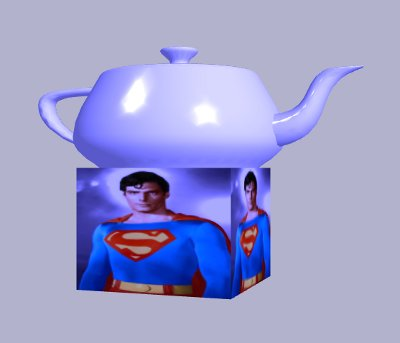
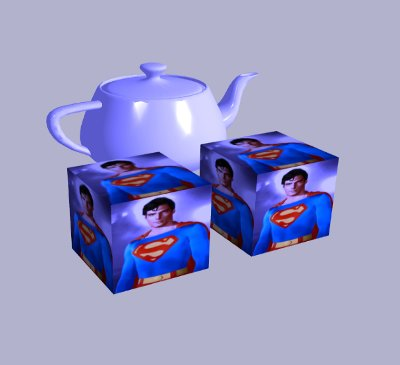
'About' page tweaks

diff --git a/about.html b/about.html
@@ -118,7 +118,7 @@
     <p>A scene graph is a data structure that arranges the logical and spatial
         representation of a graphical scene as a collection of nodes in a graph, typically
         a tree. Scene graphs typically provide a convenient
-        abstraction on top of low-level graphics APIs that encapsulates optimisations
+        abstraction on top of low-level graphics APIs (such as WebGL) that encapsulates optimisations
         and API best practices, leaving the developer free to concentrate on
         scene content.</p>
 
@@ -196,7 +196,7 @@
 
     <h3>5. Scene Optimisation</h3>
 
-    <p>The API supports several scene definition techniques that improve scene
+    <p>The SceneJS API supports several scene definition techniques that improve scene
         performance by exploiting the draw list state sorting order described above.
 
     <h4>5.1. Texture Atlases</h4>
@@ -275,76 +275,77 @@
 </div>
 <div class="col right">
     <a name="sceneDef"></a>
-        <pre class="prettyprint lang-javascript" style="margin-bottom:30px;">
+        <pre class="prettyprint lang-javascript" style="margin-bottom:20px;">
 var scene = SceneJS.createScene({
-   nodes:[
-      {
-         type:"material",
-         color:{ r:0.3, g:0.3, b:1.0 },
+    nodes: [{
+        type: "material",
+        color: {
+            r: 0.5,
+            g: 0.5,
+            b: 1.0
+        },
 
-         nodes:[
-            {
-               type:"rotate",
-               id:"myRotate",
-               y:1.0,
-               angle:0,
+        nodes: [{
+            type: "texture",
+            layers: [{
+                src: "../../textures/superman.jpg"
+            }],
 
-               nodes:[
-                  {
-                     type:"scale",
-                     x:0.7, y:0.7, z:0.7,
-                     nodes:[
-                        {
-                           type:"prims/teapot"
-                        }
-                     ]
-                  },
-                  {
-                     type:"texture",
-                     layers:[
-                        {
-                           src:"textures/superman.jpg"
-                        }
-                     ],
-                     nodes:[
-                        {
-                           type:"translate",
-                           y:-1.0,
-                           nodes:[
-                              {
-                                 type:"prims/box"
-                              }
-                           ]
-                        }
-                     ]
-                  }
-               ]
-            }
-         ]
-      }
-   ]
-});
-</pre>
+            nodes: [{
+                type: "translate",
+                x: -3.0,
+                y: 1.0,
+                z: 5.0,
+
+                nodes: [{
+                    type: "prims/box"
+                }]
+            }, {
+                type: "translate",
+                y: 1.0,
+                z: 5.0,
+
+                nodes: [{
+                    type: "prims/box"
+                }]
+            }]
+        }, {
+            type: "prims/teapot"
+        }]
+    }]
+});</pre>
     <p><strong>Listing 1.</strong> Scene graph definition. The scene graph is a directed acyclic
         graph (DAG) expressed in JSON, in this case defining a scene containing a blue
-        teapot that rotates about its Y-axis. Geometry nodes are normally at the leaves,
-        where they inherit the state defined by higher nodes, in this case the material and rotation transform.
+        teapot sitting on a textured box, both of which rotate together about the Y-axis.
+        Geometry nodes are normally at the leaves, where they inherit the state defined by higher
+        nodes, in this case the material and rotation transform.
     </p>
 
-    <br/><br/><br/>
-    <img src="images/sceneGraphObjects.png">
-    <p><strong>Fig 1.</strong> Scene graph compiled from the scene definition of Listing 1. Note that
+
+    <img src="images/sceneGraphObjects3.png">
+    <p><strong>Figure 1.</strong> Scene graph compiled from the scene definition of Listing 1. Note that
         geometries at the leaves inherit state from parent nodes, and that various nodes hold resources
         allocated for them on the GPU.
     </p>
 
-    <br/><br/><br/>
+    <br/><br/>
+    <img src="images/drawListObjects2.png">
+    <p><strong>Figure 2.</strong> State-sorted draw list compiled from the scene graph of Figure 2.
+        Nodes n1, n2 and n3 reference the states to set on WebGL to draw the teapot
+        and cubes at the leaves of the scene graph. Nodes n2 and n3 reference a similar
+        state configuration and therefore reference the same shader. The nodes are ordered to
+        prevent needless rebinding of the texture, geometry VBOs and shader programs when
+        rendering the frame.
+    </p>
+
+    <br/><br/><br/><br/>
     <a href="examples.html?page=secondExample" target="_other"><img src="images/secondExample.jpg"></a>
-    <p><strong>Fig 2.</strong> Screenshot of 3D scene rendered from the scene definition of Listing 1.
+    <p><strong>Figure 2.</strong> The 3D scene rendered from the scene definition of Listing 1.
         Run it <a href="examples.html?page=secondExample" target="_other">here</a>.
     </p>
 
 
+    <br/><br/><br/><br/>
     <a name="nodeCores"></a>
             <pre class="prettyprint lang-javascript">
 var scene = SceneJS.createScene({

diff --git a/examples/ex/demos/secondExample.html b/examples/ex/demos/secondExample.html
@@ -30,26 +30,14 @@
     var scene = SceneJS.createScene({
         nodes:[
             {
-                type:"material",
-                color:{ r:0.5, g:0.5, b:1.0 },
-
+                type:"lookAt",
+                eye:{ z:15, x:-8, y:7 },
                 nodes:[
                     {
-                        type:"rotate",
-                        id:"myRotate",
-                        y:1.0,
-                        angle:0,
+                        type:"material",
+                        color:{ r:0.5, g:0.5, b:1.0 },
 
                         nodes:[
-                            {
-                                type:"scale",
-                                x:0.7, y:0.7, z:0.7,
-                                nodes:[
-                                    {
-                                        type:"prims/teapot"
-                                    }
-                                ]
-                            },
                             {
                                 type:"texture",
                                 layers:[
@@ -60,7 +48,20 @@
                                 nodes:[
                                     {
                                         type:"translate",
-                                        y:-1.0,
+                                        id:"boxPos",
+                                        x:-3.0,
+                                        y:1.0,
+                                        z:5.0,
+                                        nodes:[
+                                            {
+                                                type:"prims/box"
+                                            }
+                                        ]
+                                    },
+                                    {
+                                        type:"translate",
+                                        y:1.0,
+                                        z:5.0,
                                         nodes:[
                                             {
                                                 type:"prims/box"
@@ -68,6 +69,9 @@
                                         ]
                                     }
                                 ]
+                            },
+                            {
+                                type:"prims/teapot"
                             }
                         ]
                     }
@@ -76,19 +80,24 @@
         ]
     });
 
-    // On each frame, spin the teapot a little bit
+    // On each frame, update one of the box translations
 
-    scene.getNode("myRotate", function (myRotate) {
-
-        var angle = 0;
-
-        myRotate.setAngle(-20)
-
-        scene.on("tick",
-                function () {
-                  //  myRotate.setAngle(angle += 0.5);
-                });
-    });
+//    scene.getNode("boxPos",
+//            function (boxPos) {
+//
+//                var y = 1.0;
+//                var inc = 0.1;
+//
+//                scene.on("tick",
+//                        function () {
+//                            boxPos.setY(y);
+//                            y += inc;
+//
+//                            if (y > 5 || y < 1.0) {
+//                                inc *= -1.0;
+//                            }
+//                        });
+//            });
 
 </script>
 </body>
